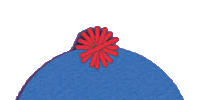
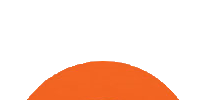
fix

diff --git a/Camfight/Form1.cs b/Camfight/Form1.cs
@@ -259,7 +259,7 @@ namespace Camfight
                     enemy = new Player("player1", Resources.player1, Resources.player1_lh, Resources.player1_rh, Resources.player1_left, Resources.player1_left_lh, Resources.player1_left_rh, Resources.player1_right, Resources.player1_right_lh, Resources.player1_right_rh, Resources.H1, Resources.BGL, Resources.BGR);
                     break;
                 case 1:
-                    enemy = new Player("player1", Resources.player2, Resources.player2_lh, Resources.player2_rh, Resources.player2_left, Resources.player2_left_lh, Resources.player2_left_rh, Resources.player2_right, Resources.player2_right_lh, Resources.player2_right_rh, Resources.H4, Resources.BGL, Resources.BGR);
+                    enemy = new Player("player1", Resources.player2, Resources.player2_lh, Resources.player2_rh, Resources.player2_left, Resources.player2_left_lh, Resources.player2_left_rh, Resources.player2_right, Resources.player2_right_lh, Resources.player2_right_rh, Resources.H2, Resources.BGL, Resources.BGR);
                     break;
                 case 2:
                     //enemy = new Player("player1", Resources.player3, Resources.player3_lh, Resources.player3_rh, Resources.player3_left, Resources.player3_left_lh, Resources.player3_left_rh, Resources.player3_right, Resources.player3_right_lh, Resources.player3_right_rh, Resources.H3, Resources.BGL, Resources.BGR);
@@ -268,7 +268,7 @@ namespace Camfight
                     //enemy = new Player("player1", Resources.player4, Resources.player4_lh, Resources.player4_rh, Resources.player4_left, Resources.player4_left_lh, Resources.player4_left_rh, Resources.player4_right, Resources.player4_right_lh, Resources.player4_right_rh, Resources.H4, Resources.BGL, Resources.BGR);
                     break;
                 default:
-                    enemy = new Player("player1", Resources.player2, Resources.player2_lh, Resources.player2_rh, Resources.player2_left, Resources.player2_left_lh, Resources.player2_left_rh, Resources.player2_right, Resources.player2_right_lh, Resources.player2_right_rh, Resources.H4, Resources.BGL, Resources.BGR);
+                    enemy = new Player("player1", Resources.player2, Resources.player2_lh, Resources.player2_rh, Resources.player2_left, Resources.player2_left_lh, Resources.player2_left_rh, Resources.player2_right, Resources.player2_right_lh, Resources.player2_right_rh, Resources.H2, Resources.BGL, Resources.BGR);
                     break;
             }
         }
@@ -280,7 +280,7 @@ namespace Camfight
                     myplayer = new Player("player2", Resources.player1, Resources.player1_lh, Resources.player1_rh, Resources.player1_left, Resources.player1_left_lh, Resources.player1_left_rh, Resources.player1_right, Resources.player1_right_lh, Resources.player1_right_rh, Resources.H1, Resources.BGL, Resources.BGR);
                     break;
                 case 1:
-                    myplayer = new Player("player2", Resources.player2, Resources.player2_lh, Resources.player2_rh, Resources.player2_left, Resources.player2_left_lh, Resources.player2_left_rh, Resources.player2_right, Resources.player2_right_lh, Resources.player2_right_rh, Resources.H4, Resources.BGL, Resources.BGR);
+                    myplayer = new Player("player2", Resources.player2, Resources.player2_lh, Resources.player2_rh, Resources.player2_left, Resources.player2_left_lh, Resources.player2_left_rh, Resources.player2_right, Resources.player2_right_lh, Resources.player2_right_rh, Resources.H2, Resources.BGL, Resources.BGR);
                     break;
                 case 2:
                     //myplayer = new Player("player2", Resources.player3, Resources.player3_lh, Resources.player3_rh, Resources.player3_left, Resources.player3_left_lh, Resources.player3_left_rh, Resources.player3_right, Resources.player3_right_lh, Resources.player3_right_rh, Resources.H3, Resources.BGL, Resources.BGR);
@@ -289,7 +289,7 @@ namespace Camfight
                     //myplayer = new Player("player2", Resources.player4, Resources.player4_lh, Resources.player4_rh, Resources.player4_left, Resources.player4_left_lh, Resources.player4_left_rh, Resources.player4_right, Resources.player4_right_lh, Resources.player4_right_rh, Resources.H4, Resources.BGL, Resources.BGR);
                     break;
                 default:
-                    myplayer = new Player("player2", Resources.player2, Resources.player2_lh, Resources.player2_rh, Resources.player2_left, Resources.player2_left_lh, Resources.player2_left_rh, Resources.player2_right, Resources.player2_right_lh, Resources.player2_right_rh, Resources.H4, Resources.BGL, Resources.BGR);
+                    myplayer = new Player("player2", Resources.player2, Resources.player2_lh, Resources.player2_rh, Resources.player2_left, Resources.player2_left_lh, Resources.player2_left_rh, Resources.player2_right, Resources.player2_right_lh, Resources.player2_right_rh, Resources.H2, Resources.BGL, Resources.BGR);
                     break;
             }
         }    
